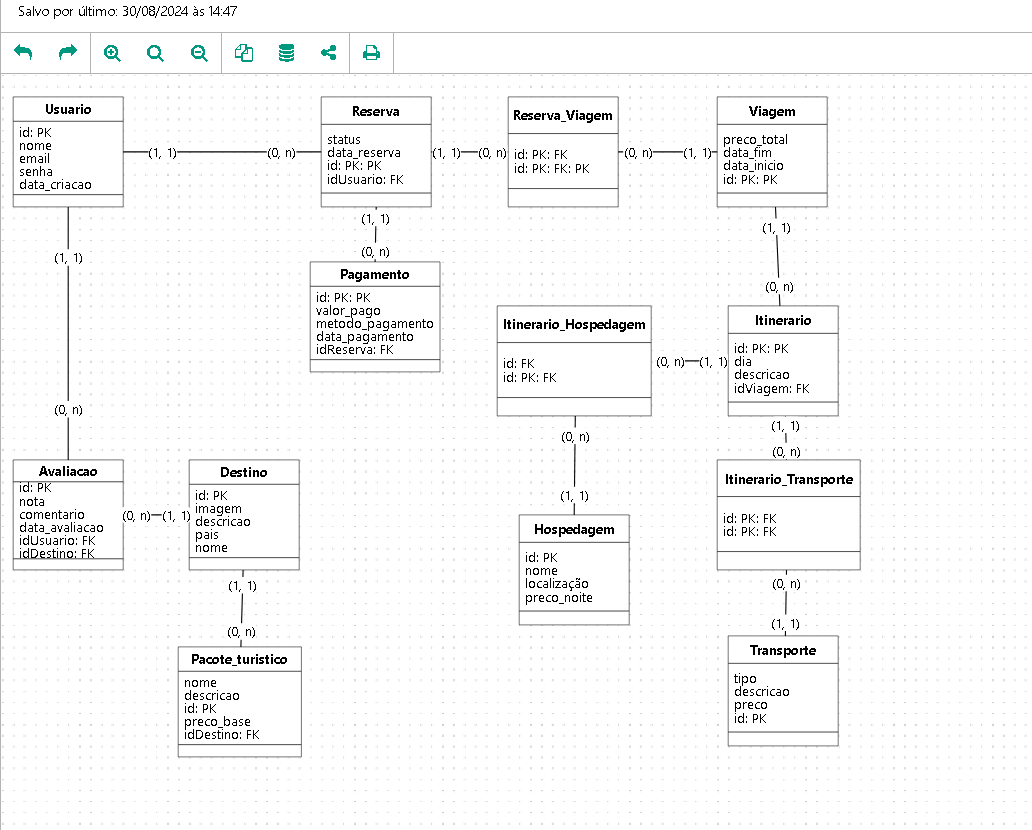
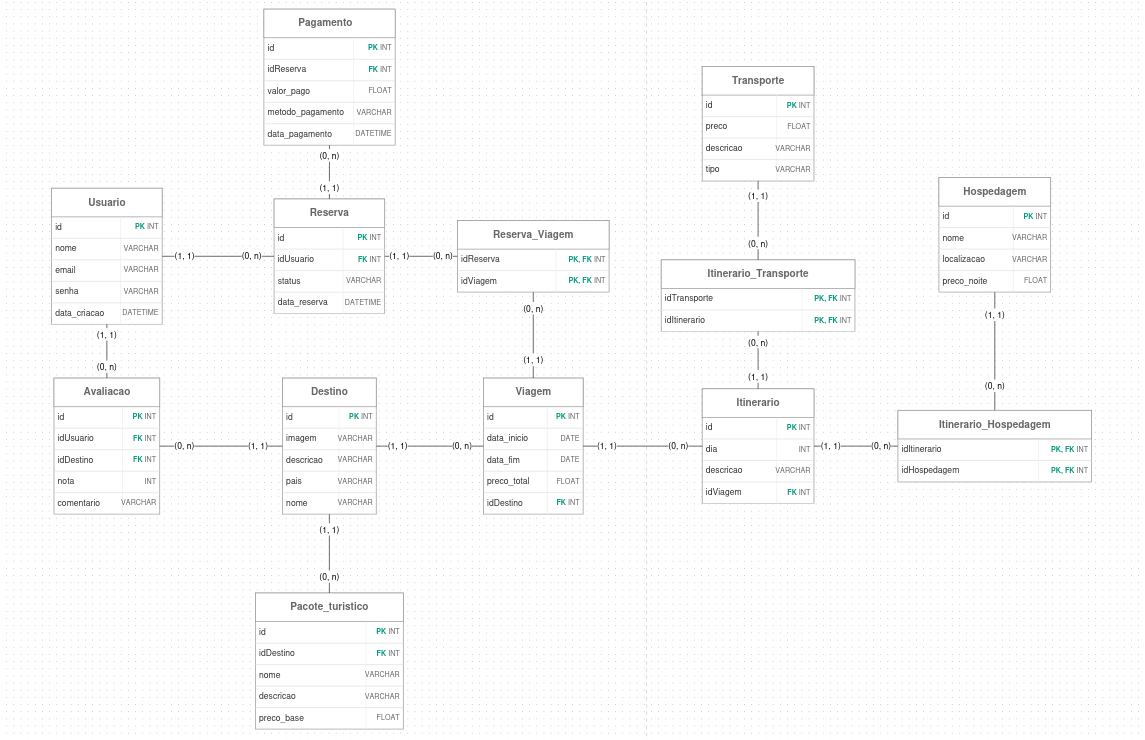
ajustes entrega 2026

diff --git a/travelly-frontend/src/app/avaliacoes/page.tsx b/travelly-frontend/src/app/avaliacoes/page.tsx
@@ -1,5 +1,5 @@
 "use client";
-import { useEffect, useState } from "react";
+import { useEffect, useState, useCallback } from "react";
 import {
   AvaliacaoCompleteData,
   AvaliacaoCompleteDataResponse,
@@ -38,6 +38,19 @@ export default function ListaAvaliacoes() {
       .then((res) => {
         console.log(res.data.completeRatingsList);
         setData(res.data.completeRatingsList);
+        setLoading(false);
+      })
+      .catch((err) => {
+        console.error(err);
+        setLoading(false);
+      });
+  }, []);
+
+  const onPress = useCallback(() => {
+    setLoading(true);
+    axios.post("http://localhost:8664/api/views/update-package-prices")
+      .then((res) => {
+        console.log(res.data.message);
         setLoading(false);
       })
       .catch((err) => {
@@ -109,6 +122,7 @@ export default function ListaAvaliacoes() {
               ))}
             </tbody>
           </table>
+          <button onClick={onPress}>Atualizar Preços dos Pacotes</button>
         </div>
       </main>
     </>

diff --git a/travelly-backend/src/routes/controllers/PacotesController.ts b/travelly-backend/src/routes/controllers/PacotesController.ts
@@ -15,4 +15,15 @@ export class PacoteController {
         .json({ message: "Erro ao buscar pacotes para o destino.", error });
     }
   }
+
+  static async updatePackagePrices(_: Request, res: Response) {
+    try {
+      await pacoteRepository.updatePrices();
+      return res.status(200).json({ message: "Preços dos pacotes atualizados com sucesso." });
+    } catch (error) {
+      return res
+        .status(500)
+        .json({ message: "Erro ao atualizar preços dos pacotes.", error });
+    }
+  }
 }

diff --git a/travelly-backend/src/database/repositories/PacotesRepository.ts b/travelly-backend/src/database/repositories/PacotesRepository.ts
@@ -12,4 +12,8 @@ export class PacoteRepository implements IPacoteRepository {
     );
     return result.rows || null;
   }
+
+  async updatePrices(): Promise<void> {
+    await dbConnection.query("CALL AtualizarPrecoPacotes()");
+  }
 }

diff --git a/travelly-backend/src/domain/interfaces/IPacotesRepository.ts b/travelly-backend/src/domain/interfaces/IPacotesRepository.ts
@@ -8,4 +8,5 @@ export interface Pacote {
 
 export interface IPacoteRepository {
   getByDestinyId(id: string): Promise<Pacote[] | null>;
+  updatePrices(): Promise<void>;
 }

diff --git a/travelly-backend/src/routes/router.ts b/travelly-backend/src/routes/router.ts
@@ -65,5 +65,6 @@ router.get("/views/get/:id", ViewsController.getRatingInfo);
 
 //! rotas para pacotes_turisticos
 router.get("/views/get-destiny-packs/:id", PacoteController.getPackageInfo);
+router.post("/views/update-package-prices", PacoteController.updatePackagePrices);
 
 export { router };